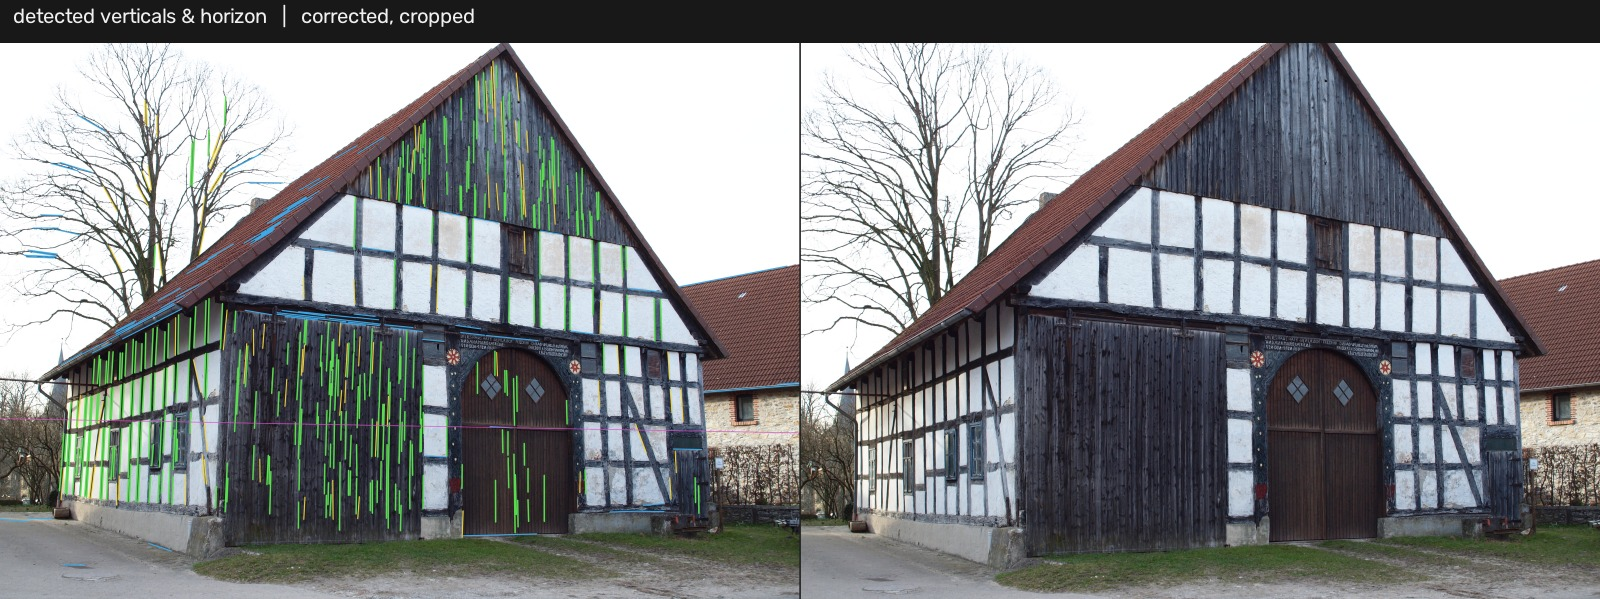
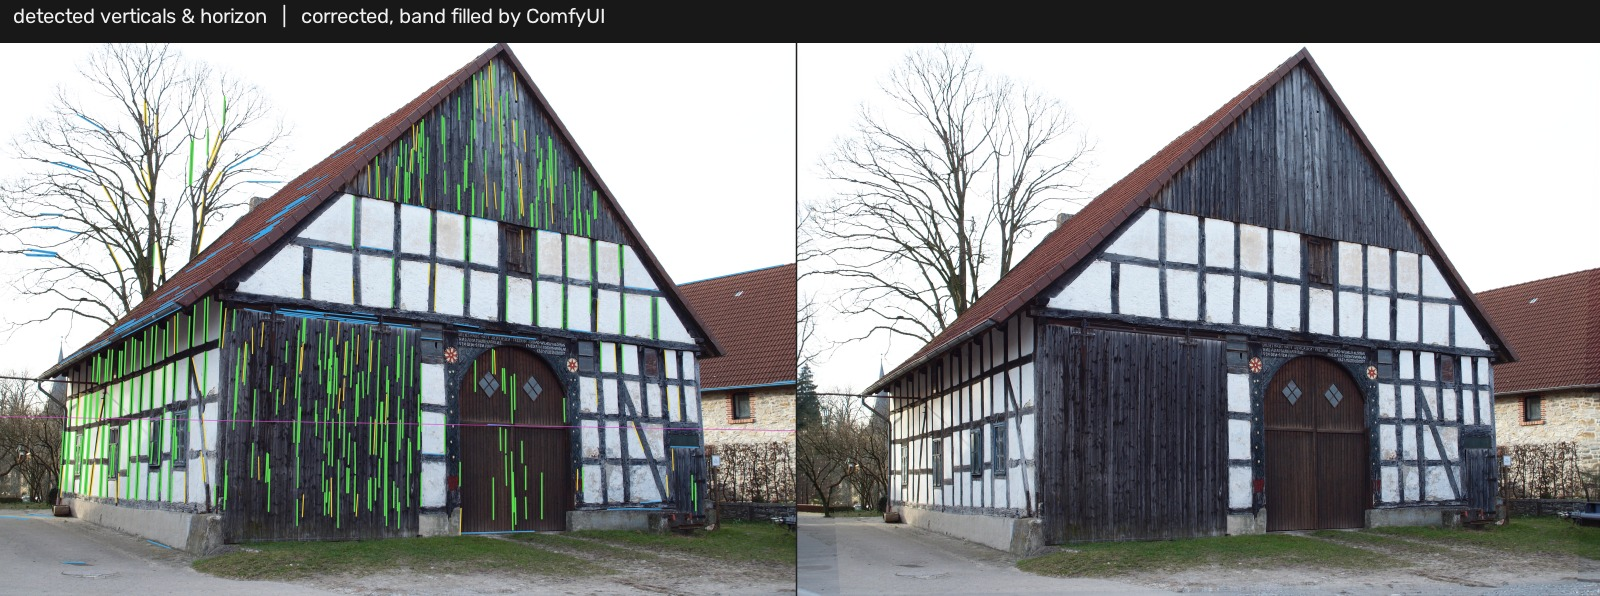
Fill the hero's band with ComfyUI, not a forced crop
Alte_Scheune's correction opens an 11.5% band -- above the 5%
max-crop-loss default, so --crop auto keeps the whole frame here rather
than cropping. The previous hero forced --crop aspect to show a crop
that this photo would not actually get by default.

Re-rendered with the real default (--crop auto, which pads) and --fill
comfyui (the Klein edit-model workflow), so the right half is what a
batch run on this photo actually produces when ComfyUI is configured --
keep=100%, 6.6% of the frame filled, no visible seam. Alt text says the
backend is optional rather than implying it is what happens out of the
box.

Claude-Session: https://claude.ai/code/session_015ZUVodBgeAv6wTupnJSTyA

diff --git a/README.md b/README.md
@@ -1,6 +1,6 @@
 # Batch Perspective Correction
 
-![left: detected verticals, horizontals and the implied horizon. right: corrected and cropped to the original aspect ratio](docs/hero-before-after.jpg)
+![left: detected verticals, horizontals and the implied horizon. right: corrected, the opened band filled by an optional ComfyUI backend rather than cropped](docs/hero-before-after.jpg)
 
 Straightens converging verticals in architectural photographs, a folder at a
 time. Built for the case where most of a batch needs a small correction, some
